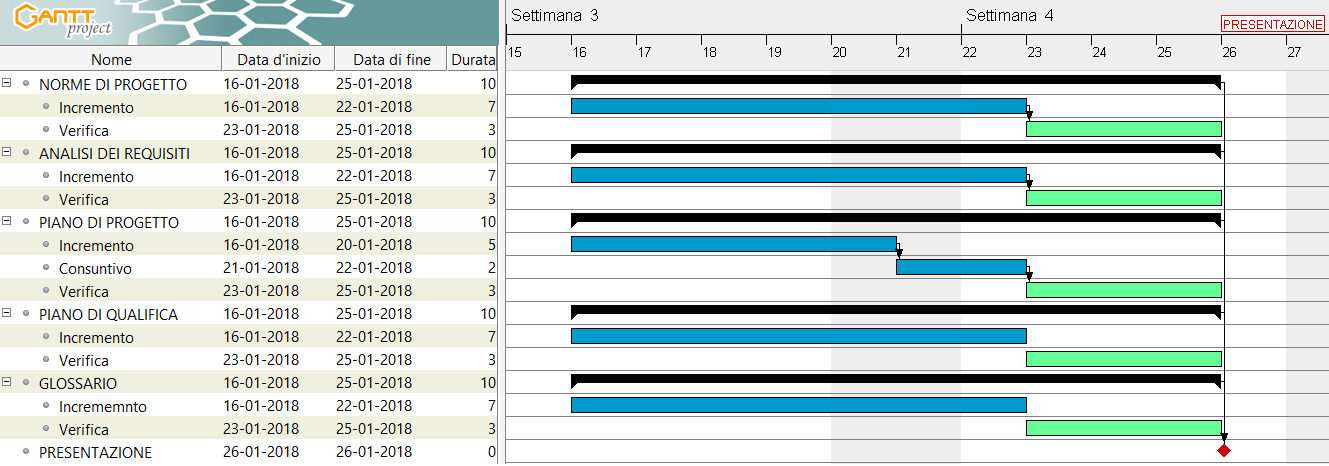
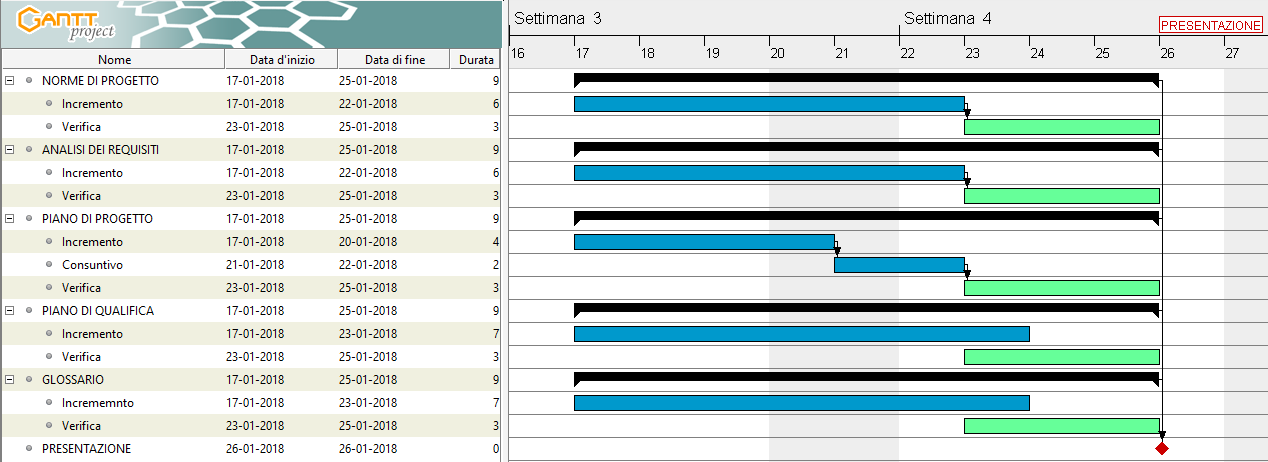
Pianificazione progettazione arch. piano di progetto

Changed region(s): [[0.0, 0.0, 1.0, 1.0]]

diff --git a/Esterni - ENG/PianoDiProgetto/Pianificazione.tex b/Esterni - ENG/PianoDiProgetto/Pianificazione.tex
@@ -27,15 +27,31 @@ Il periodo di analisi comincia il 23-11-2017 e si conclude il 16-01-2018: l'iniz
 
 \section{Consolidamento dei requisiti}
 Il periodo di consolidamento dei requisiti inizia il 16-01-2017 e termina il 26-01-2017: comincia il giorno della consegna dei documenti per la prima scadenza e termina il giorno della presentazione della Revisione dei Requisiti. In questo periodo l'attività principale è il miglioramento dei documenti e dell'\textit{Analisi dei Requisiti} in vista dell'inizio del periodo di Progettazione architetturale.
+\subsection{Consolidamento dei requisiti - Diagramma di Gantt}
 \begin{figure}[ht]
-	\includegraphics[width=14cm]{images/gantt/consolidamento.png}
+	\includegraphics[width=14.5cm]{images/gantt/consolidamento.png}
 	\label{fig:foo}
 	\caption{Diagramma di Gantt del periodo di Consolidamento dei requisiti}
 \end{figure}		
-\subsection{Consolidamento dei requisiti - Diagramma di Gantt}
+
 
 \section{Progettazione architetturale}
-\subsection{Progettazione architetturale - Diagramma di Gantt}
+Il periodo di Progettazione architetturale inizia il 26-01-2017 e termina il 27-02-2017: comincia il giorno dopo la presentazione per la Revisione dei Requisiti e si conclude con la consegna dei documenti per la Revisione di Progettazione. In questo periodo, le attività principali sono:
+\begin{itemize}
+	\item \textbf{Incremento e Verifica:} all'inizio del periodo vengono svolte attività di Incremento e Verifica su vari documenti (\textit{Norme di Progetto}, \textit{Piano di Progetto}, \textit{Piano di Qualifica} e \textit{Analisi dei Requisiti}) e dopo la discussione Agile per il documento \textit{Technology Baseline} verrà svolta anche per quest'ultimo;
+	\item \textbf{Glossario:} questa attività comprende sia il miglioramento del Glossario che l'aggiunta di nuovi termini;
+	\item \textbf{Lettera di presentazione:} questa attività prevede la stesura della lettera di presentazione per la Revisione di Progettazione;
+	\item \textbf{Technology Baseline:} questa attività prevede la stesura da parte dei Progettisti del documento \textit{Technology Baseline}, contenete le scelte delle tecnologie, dei framework e delle librerie per lo sviluppo del prodotto e il Proof of Concept. Questa attività è considerata critica e bloccante per la prosecuzione del progetto. In una data ancora indefinita tra il 27-02-2017 e il 12-03-2017 avvererà una discussione in modalità Agile per la verifica di questo documento.
+\end{itemize}
+
+\begin{landscape}
+	\subsection{Progettazione architetturale - Diagramma di Gantt}
+	\begin{figure}[ht]
+		\includegraphics[width=19cm]{images/gantt/progArch.png}
+		\label{fig:foo}
+		\caption{Diagramma di Gantt del periodo di Progettazione architetturale}
+	\end{figure}	
+\end{landscape}
 
 \section{Progettazione di dettaglio e codifica}
 \subsection{Progettazione di dettaglio e codifica - Diagramma di Gantt}

diff --git a/Esterni - ENG/PianoDiProgetto/Preventivo.tex b/Esterni - ENG/PianoDiProgetto/Preventivo.tex
@@ -2,7 +2,7 @@
 
 \begin{document}
 
-\chapter{Preventivo}
+\chapter{Preventivo iniziale}
 
 \section{Analisi}
 \subsection{Prospetto Orario}
